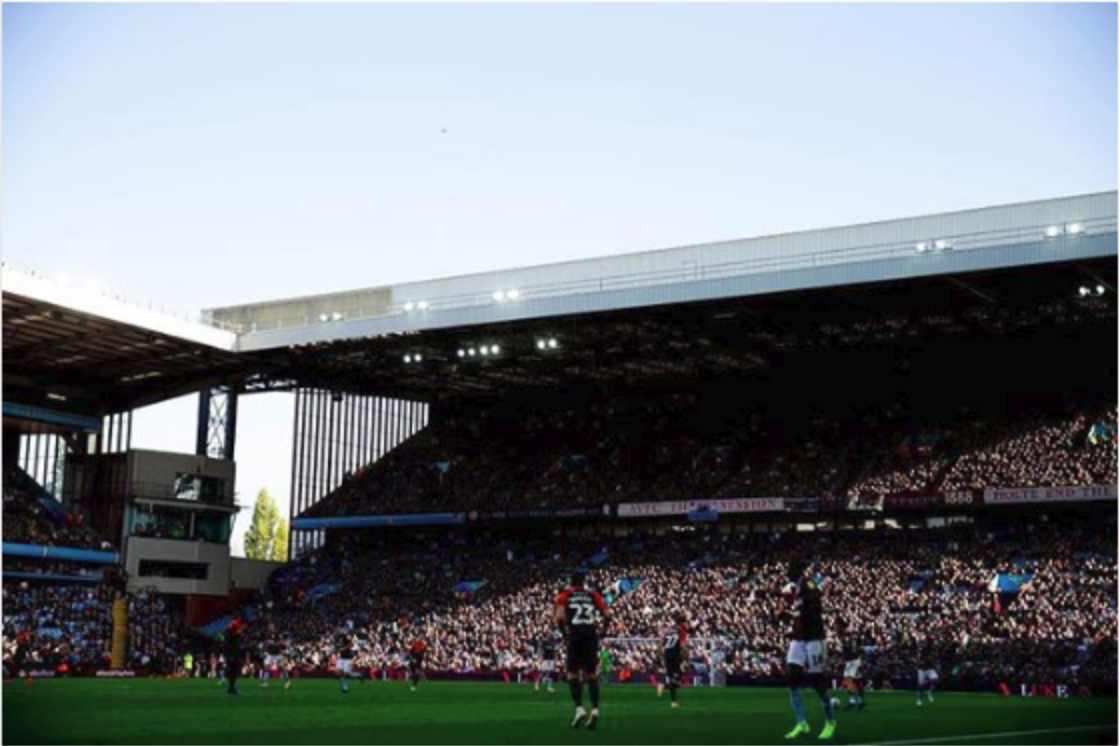
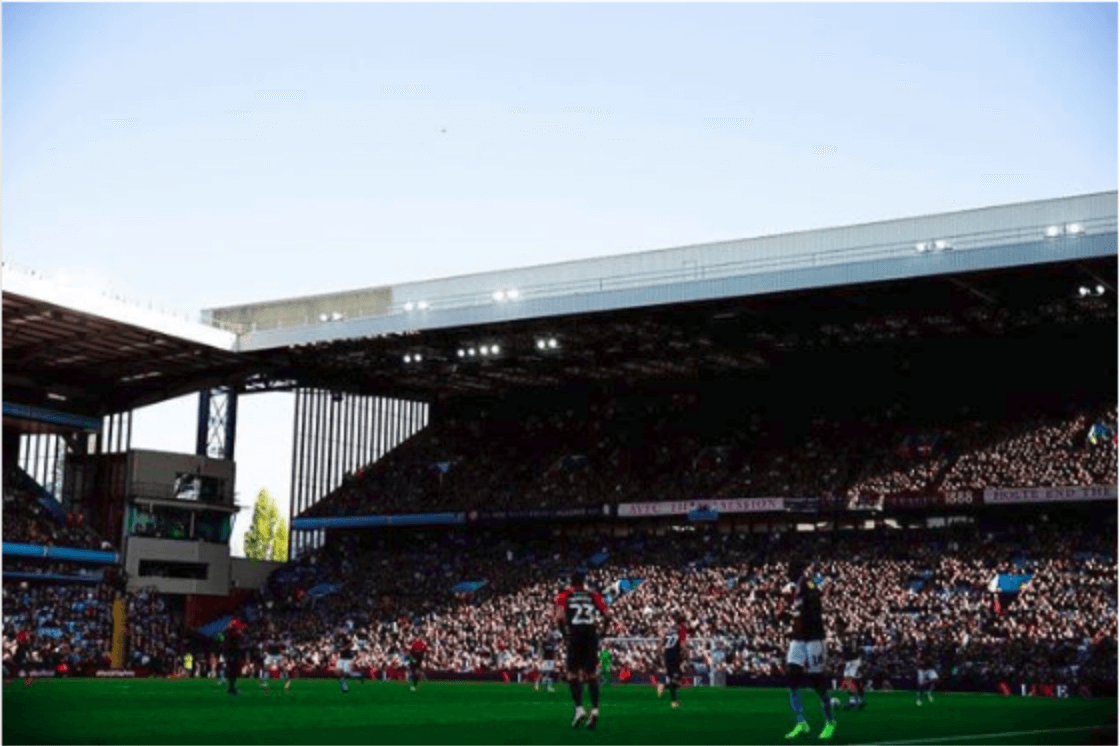
feat: allowed different image sizes to be served

diff --git a/app/src/app/children/image/index.js b/app/src/app/children/image/index.js
@@ -1,15 +1,32 @@
 import React from 'react'
 import styles from './styles'
-import {getCaptionFromEdges} from './helpers'
+import { getCaptionFromEdges } from './helpers'
 
 const Image = (props) => {
-  const {data} = props
+  const { data } = props
+
+  /**
+   * unfortunately the display resources scontent address provided returned broken images
+   * so I had to make local versions of the image to make this work, modifying the data.json file address.
+   */
+
+   const makeSrcSetString = (imageSet) => {
+    let srcSet = "";
+    imageSet.map(image => {
+      srcSet += image.src+' '+image.config_width+'w,';
+      console.log(srcSet)
+     })
+    return srcSet.slice(0,-1)
+   }
+
+
   return (
-    <img
-      src={data.display_url}
-      style={styles}
-      alt={getCaptionFromEdges(data.edge_media_to_caption)}
-    />
+      <img
+        src={data.display_resources[0].src}
+        srcSet={makeSrcSetString(data.display_resources)}
+        style={styles}
+        alt={getCaptionFromEdges(data.edge_media_to_caption)}
+      />
   )
 }
 

diff --git a/app/src/app/children/comments_block/index.js b/app/src/app/children/comments_block/index.js
@@ -11,13 +11,13 @@ const CommentsBlock = (props) => {
       <Comment key={data.id} username={data.owner.username} userComment={getCaptionFromEdges(data.edge_media_to_caption)} />
       {data.edge_media_to_comment.edges.map(comment => {
         return (
-          <div style={styles.commentContainer}>
-          <div style={styles.comment}>
-            <Comment  key={comment.node.id} username={comment.node.owner.username} userComment={comment.node.text} />
-          </div>
-          <div style={styles.likeComment}>
-            <LikeButton size={"small"} style={styles.likeComment}/>
-          </div>
+          <div style={styles.commentContainer} key={comment.node.id}>
+            <div style={styles.comment}>
+              <Comment username={comment.node.owner.username} userComment={comment.node.text} />
+            </div>
+            <div style={styles.likeComment}>
+              <LikeButton size={"small"} style={styles.likeComment} />
+            </div>
           </div>
         )
       })}

diff --git a/app/src/app/styles.js b/app/src/app/styles.js
@@ -19,17 +19,19 @@ export default {
   image: {
     order: '1',
     flex: '1 0 60%',
-    alignSelf: 'flex-start',
+    alignSelf: 'stretch',
     boxSizing: 'border-box',
     backgroundColor: '#fafafa',
-    padding: '20px 0px 5px 0px'
+    display: 'flex'
   },
 
   text: {
     order: '2',
     flex: '1 0 40%',
-    alignSelf: 'flex-start',
+    alignSelf: 'stretch',
     boxSizing: 'border-box',
-    padding: '20px 0px 5px 20px'
+    padding: '20px 0px 0px 20px',
+    display: 'flex',
+    flexFlow: 'column'
   }
 }

diff --git a/app/src/app/children/comments_block/styles.js b/app/src/app/children/comments_block/styles.js
@@ -1,7 +1,7 @@
 export default {
   commentList: {
     overflow: 'auto',
-    height: '50vh'
+    flex: '1 0 50vh'
   },
   commentContainer: {
     display: 'flex'

diff --git a/app/src/app/children/image/styles.js b/app/src/app/children/image/styles.js
@@ -1,4 +1,5 @@
 export default {
   width: '100%',
+  alignSelf: 'center',
   display: 'block'
 }
